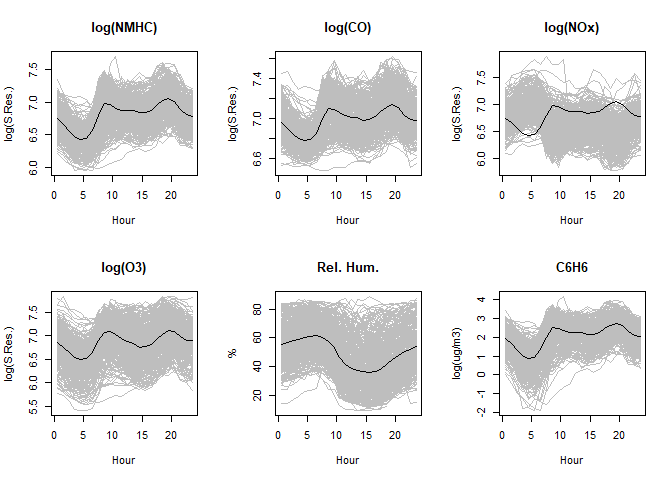
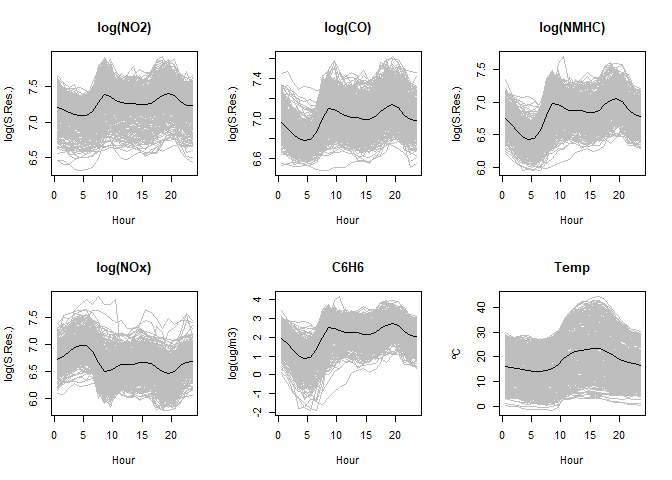
Update Real data example

diff --git a/README.md b/README.md
@@ -1,10 +1,11 @@
 
 # Supplementary material for Functional Response Model with Functional Response (FRMFR)
 
-Supplementary codes and data used in the paper: Darbalaei, M., Amini,
-M., Febrero-Bande, M., & Oviedo-de-la-Fuente, M. O. D. (2022).
-*Functional Regression Models with Functional Response: New Approaches
-and a Comparative Study*. arXiv preprint
+Supplementary codes and data used in the paper:
+
+Darbalaei, M., Amini, M., Febrero-Bande, M., & Oviedo-de-la-Fuente, M.
+O. D. (2022). *Functional Regression Models with Functional Response:
+New Approaches and a Comparative Study*. arXiv preprint
 [arXiv:2207.04773](https://doi.org/10.48550/arXiv.2207.04773).
 
 Please cite this paper as:
@@ -118,12 +119,6 @@ quality multisensor device. The column names in the dataset begin with
 - Ozone (`O3`) because it is supposed that its measures are related with
   the respective pollutants.
 
-The goal of this study is to predict the content of Benzene (`C6H6`)
-obtained through an independent analyzer considered the Ground Truth.
-These sensors were collected as 24 hourly averaged concentration values
-each day jointly with the relative humidity (`rH`) as an external
-factor.
-
 ``` r
 data("AirQuality")
 names(AirQuality)
@@ -131,29 +126,19 @@ names(AirQuality)
 
     ## [1] "df"   "C6H6" "CO"   "NMHC" "NOx"  "NO2"  "O3"   "Temp" "RH"
 
-``` r
-par(mfrow=c(2,3))
-plot(AirQuality$NO2,col="grey")
-lines(func.mean(AirQuality$NO2))
-plot(AirQuality$CO,col="grey")
-lines(func.mean(AirQuality$CO))
-plot(AirQuality$NMHC,col="grey")
-lines(func.mean(AirQuality$NMHC))
-plot(AirQuality$NOx,col="grey")
-lines(func.mean(AirQuality$NOx))
-plot(AirQuality$C6H6,col="grey")
-lines(func.mean(AirQuality$C6H6))
-plot(AirQuality$Temp,col="grey")
-lines(func.mean(AirQuality$Temp))
-```
+![](README_files/figure-gfm/unnamed-chunk-7-1.png)<!-- -->
 
-![](README_files/figure-gfm/unnamed-chunk-6-1.png)<!-- -->
+The goal of this study is to predict the content of Benzene (`C6H6`)
+obtained through an independent analyzer considered the Ground Truth.
+These sensors were collected as 24 hourly averaged concentration values
+each day jointly with the relative humidity (`rH`) as an external
+factor.
+
+- `/RealDataApplications/BikeSharing.R`: Code for example Air Quality
 
 ``` r
-# source("BikeSharing.R")
+source("/RealDataApplications/BikeSharing.R")
 ```
-
-- `./inst/script/data-real-aqi.R`: Code for example Air Quality.
 
 <!--+ AirQualityUCI.xlsx: Air Quality Data.-->
 
@@ -164,57 +149,27 @@ the Bike-sharing data (Fanaee-T and Gama 2014) as our first example.
 This dataset is collected by [Capital Bikeshare System (CBS), Washington
 D.C., USA](https://ride.capitalbikeshare.com/system-data). The number of
 casual bike rentals (`NCBR`) is considered as our functional response
-variable
+variable and four functional predictors:
 
-Functional predictors: + Temperature (`T`), + Humidity (`H`), + Wind
-Speed (`WS`) and + Feeling Temperature (`FT`)
+- Temperature (`T`),
+- Humidity (`H`),
+- Wind Speed (`WS`) and
+- Feeling Temperature (`FT`)
+
+`data("AirQuality")` included in `fda.usc.devel` packages:
+
+``` r
+data("BikeSharing")
+names(BikeSharing)
+```
+
+    ## [1] "df"        "logNBCR"   "temp"      "feeltemp"  "humidity"  "windspeed"
 
 The corresponding plots are displayed in Figure XXX.
 
-``` r
-data("AirQuality")
-names(AirQuality)
-```
+    ## [1] "df"        "logNBCR"   "temp"      "feeltemp"  "humidity"  "windspeed"
 
-    ## [1] "df"   "C6H6" "CO"   "NMHC" "NOx"  "NO2"  "O3"   "Temp" "RH"
-
-``` r
-listfinal <- AirQuality
-dim(listfinal$df)
-```
-
-    ## [1] 389   2
-
-``` r
-al=lapply(listfinal[-1],function(v) which(fda.usc.devel:::is.na.fdata(v)))
-al=unique(rapply(al,drop))
-listfinal=subset(listfinal,-al)
-dim(listfinal$df)
-```
-
-    ## [1] 357   2
-
-``` r
-par(mfrow=c(2,3))
-plot(listfinal$NMHC,col="grey")
-lines(func.mean(listfinal$NMHC))
-plot(listfinal$CO,col="grey")
-lines(func.mean(listfinal$CO))
-plot(listfinal$NOx,col="grey")
-lines(func.mean(listfinal$NMHC))
-plot(listfinal$O3,col="grey")
-lines(func.mean(listfinal$O3))
-plot(AirQuality$RH,col="grey")
-lines(func.mean(listfinal$RH))
-plot(listfinal$C6H6,col="grey")
-lines(func.mean(listfinal$C6H6))
-```
-
-![](README_files/figure-gfm/unnamed-chunk-7-1.png)<!-- -->
-
-``` r
-# source("AirQuality.R")
-```
+![](README_files/figure-gfm/unnamed-chunk-11-1.png)<!-- -->
 
 These variables are recorded each hour from January 1, 2011, to December
 31, 2012. Similar to Kim et al. (2018), we only consider the data for
@@ -223,7 +178,12 @@ natural heteroskedasticity. Ignoring three curves with missing values,
 the dataset contains 102 trajectories, each with 24 data points (hourly)
 for all variables.
 
-- `./inst/script/bike-sharing2.R`: Code for Bike–sharing data example.
+- `/RealDataApplications/AirQuality.R`: Code for Bike–sharing data
+  example (high computational time)
+
+``` r
+source("/RealDataApplications/AirQuality.R")
+```
 
 <!--+ bike-sharing2.R: Code for Bike--sharing data example.
 + hour.csv: Bike--sharing data.-
@@ -235,39 +195,39 @@ Daily profiles of Electricity Price and Demand, both measured hourly,
 are obtained from two biannual periods separated by ten years: 2008-2009
 and 2018-2019 (source:omie.es).
 
+- `/RealDataApplications/omie2008vs2018.R`: Code for Electricity Demand
+  and Price example.
+
 ``` r
 data(omel2008)
-par(mfrow=c(2,2))
-plot(omel2008$precio,col="grey")
-lines(func.mean(omel2008$precio),lwd=2)
-plot(omel2008$energia,col="grey")
-lines(func.mean(omel2008$energia),lwd=2)
-data(omel2018)
-plot(omel2018$precio,col="grey")
-lines(func.mean(omel2018$precio),lwd=2)
-plot(omel2018$energia,col="grey")
-lines(func.mean(omel2018$energia),lwd=2)
+names(omel2008)
 ```
 
-![](README_files/figure-gfm/unnamed-chunk-8-1.png)<!-- -->
+    ## [1] "df"      "precio"  "energia"
 
-``` r
-# library(lubridate)
-# plot(omel2008$precio,col=year(omel2008$df$ifecha)-2007)
-# plot(omel2008$energia,col=year(omel2008$df$ifecha)-2007)
-# data(omel2018)
-# omel2018 <- ldat
-# plot(omel2018$precio,col=year(omel2018$df$ifecha)-2015)
-# plot(omel2018$energia,col=year(omel2018$df$ifecha)-2015)
-```
+The corresponding plots are displayed in Figure XXX.
+
+![](README_files/figure-gfm/unnamed-chunk-14-1.png)<!-- -->
+
+<!-- # library(lubridate) -->
+<!-- # plot(omel2008$precio,col=year(omel2008$df$ifecha)-2007) -->
+<!-- # plot(omel2008$energia,col=year(omel2008$df$ifecha)-2007) -->
+<!-- # data(omel2018) -->
+<!-- # omel2018 <- ldat -->
+<!-- # plot(omel2018$precio,col=year(omel2018$df$ifecha)-2015) -->
+<!-- # plot(omel2018$energia,col=year(omel2018$df$ifecha)-2015) -->
 
 Profiles for Electricity Demand (first row) and Electricity Price
 (second row) for the periods 2008-09 (first column) and 2018-19 (second
 column). The black line corresponds to the functional mean of each
 dataset.
 
-- `./inst/script/Exampleomel.R`: Code for Electricity Demand and Price
-  example.
+- `/RealDataApplications/omie2008vs2018.R`: Code for Electricity Demand
+  and Price example.
+
+``` r
+source("/RealDataApplications/omie2008vs2018.R")
+```
 
 <!--
 + Exampleomel.R: Code for Electricity Demand and Price example.
